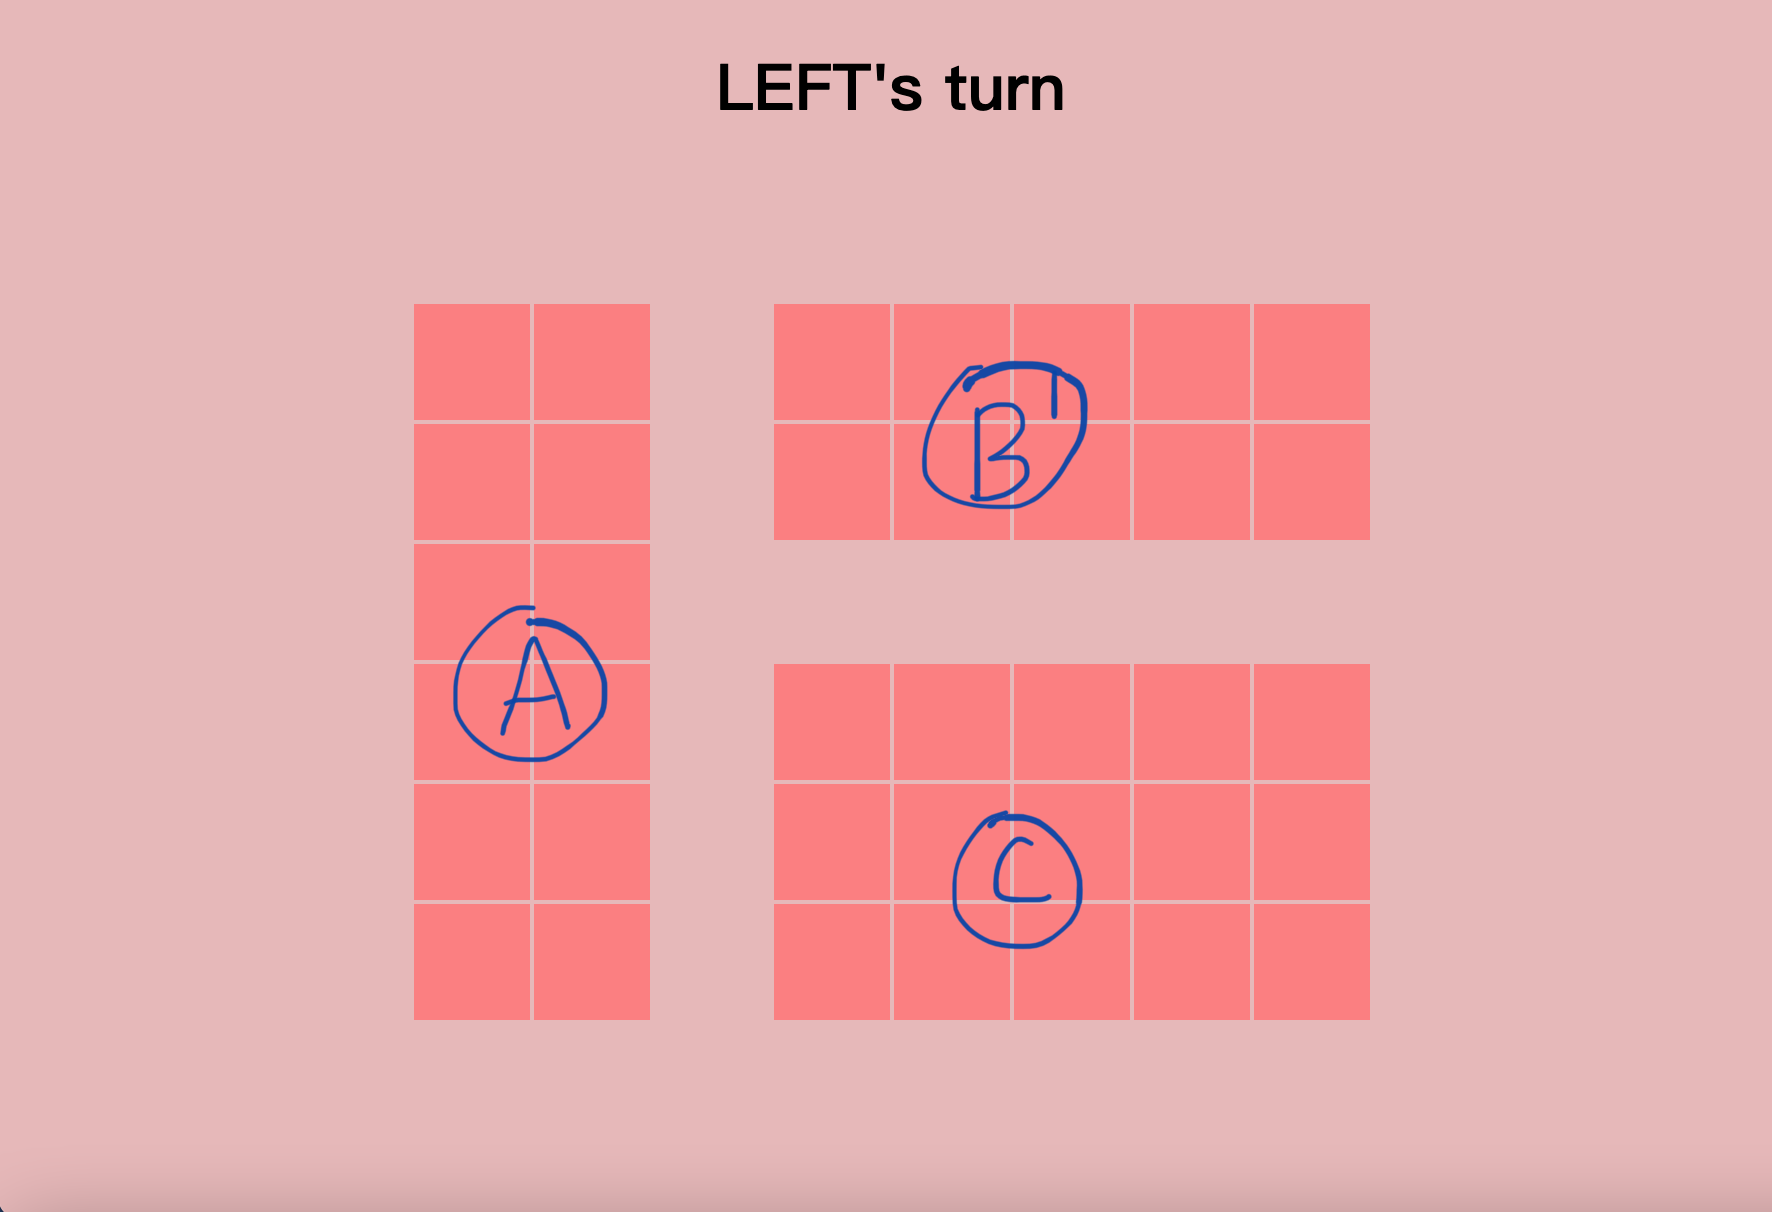
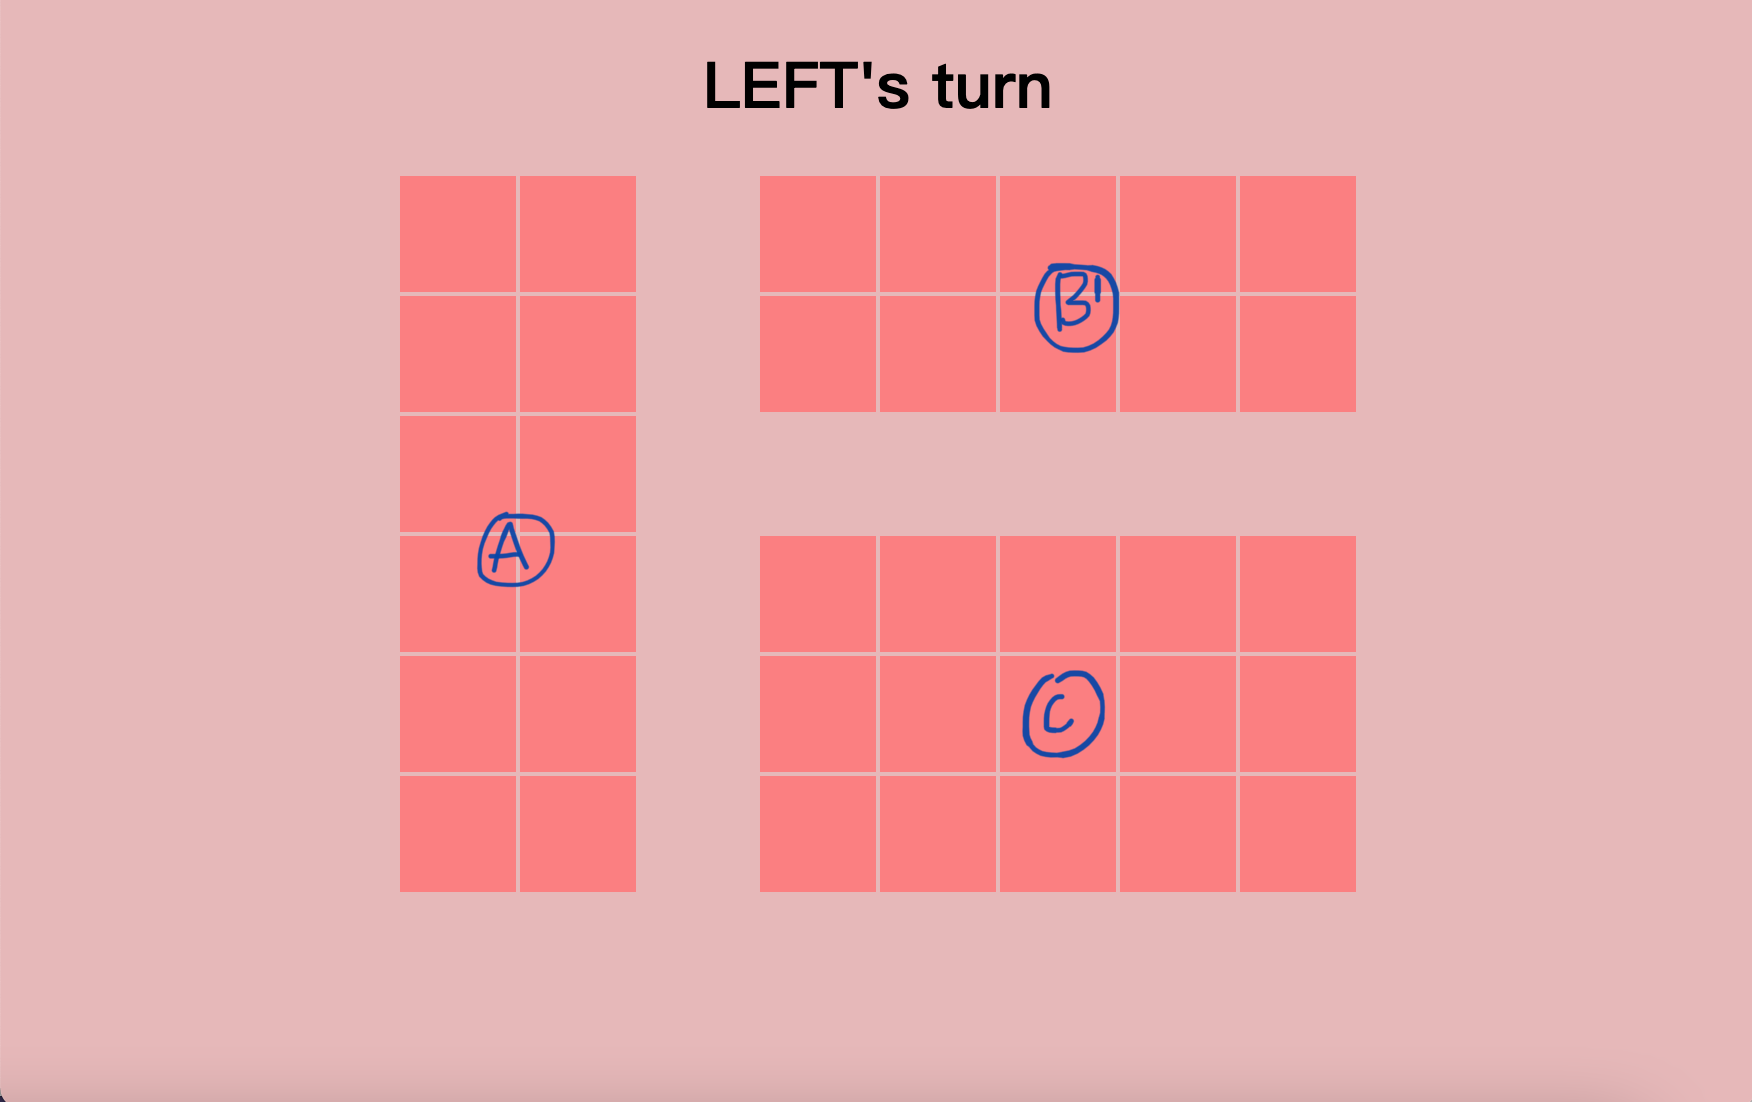
changed style partly

Changed region(s): [[0.4315, 0.1543, 0.8014, 0.8639], [0.2158, 0.1543, 0.3699, 0.8639], [0.4007, 0.0309, 0.6164, 0.1234]]

diff --git a/script.js b/script.js
@@ -28,6 +28,7 @@ const WINNING_COMBINATIONS = [
 ]
 */
 const ATE = "ate"
+const FOOD = "food"
 var cellElements
 const board = document.getElementById('board')
 const winningMessageElement = document.getElementById('winningMessage')
@@ -39,6 +40,7 @@ const setButton = document.getElementById('set-button')
 let rightTurn
 var width
 var height
+
 setButton.addEventListener('click',startGame)
 function setgrid(){
   choosegridElement.classList.remove('disappear')
@@ -51,10 +53,10 @@ function startGame() {
   height = Number(document.getElementById("height").value)
   width = Number(document.getElementById("width").value)
   if (height>width) {
-    document.documentElement.style.setProperty('--cell-size', (1/height)*480 + "px")
+    document.documentElement.style.setProperty('--cell-size', ((1-0.25)/height)*100 + "vh")
   }
   else{
-    document.documentElement.style.setProperty('--cell-size', (1/width)*480 + "px")
+    document.documentElement.style.setProperty('--cell-size', ((1-0.25)/width)*100 + "vh")
   }
   for(let i = 0;i<width*height;i++){
     let added = document.createElement("div")
@@ -70,9 +72,90 @@ function startGame() {
     cell.classList.remove(ATE)
     cell.removeEventListener('click', handleClick)
     cell.addEventListener('click', handleClick, { once: true })
+    cell.addEventListener('mouseover', handleHover)
+    cell.addEventListener('mouseout', handleOut)
   })
   document.getElementById("turn").innerHTML = "LEFT's turn"
   winningMessageElement.classList.remove('show')
+}
+function handleHover(e){
+  const cell=e.target;
+  var i = getCellIndex(cell);
+  if(rightTurn){
+    hoverRow(i);
+  }
+  else{
+    hoverCol(i);
+  }
+  hoverSingle();
+}
+function hoverSingle(){
+  var i = 0
+  for(;i<cellElements.length;i++){
+    if(!rightTurn){
+          if(((((i)%width)+width)%width==0 || cellElements[i-1].classList.contains(ATE)||cellElements[i-1].classList.contains(FOOD))&&((((i)%width)+width)%width==width-1 || cellElements[i+1].classList.contains(ATE)|| cellElements[i+1].classList.contains(FOOD))){
+      cellElements[i].classList.add(FOOD)
+    }
+    }
+    else{
+      if((i-width<0 || cellElements[i-width].classList.contains(ATE)|| cellElements[i-width].classList.contains(FOOD))&&(i+width>cellElements.length-1 || cellElements[i+width].classList.contains(ATE)|| cellElements[i+width].classList.contains(FOOD))){
+      cellElements[i].classList.add(FOOD)
+    }
+    }
+    
+  }
+}
+
+function hoverCol(i){
+  var temp = i
+  while(temp<cellElements.length){
+    if(cellElements[temp].classList.contains(ATE)){
+      break
+    }
+    cellElements[temp].classList.add(FOOD)
+    temp = temp+width
+  }
+  temp = i - width
+  while(temp > -1){
+    if(cellElements[temp].classList.contains(ATE)){
+      break
+    }
+    cellElements[temp].classList.add(FOOD)
+    temp = temp - width
+  }
+}
+
+function hoverRow(i){
+  var temp = i
+  if(temp%width==0){
+    cellElements[temp].classList.add(FOOD)
+    temp=temp+1
+  }
+  while(temp%width!=0){
+    if(cellElements[temp].classList.contains(ATE)){
+      break
+    }
+    cellElements[temp].classList.add(FOOD)
+    temp = temp+1
+  }
+  if(i%width==0){
+    return
+  }
+  temp = i - 1
+  while(((temp%width)+width)%width!=width-1){
+    if(cellElements[temp].classList.contains(ATE)){
+      break
+    }
+    cellElements[temp].classList.add(FOOD)
+    temp = temp-1
+  }
+}
+
+function handleOut(){
+  var i =0;
+  for(;i<cellElements.length;i++){
+    cellElements[i].classList.remove(FOOD);
+  }
 }
 
 function getCellIndex(elm){
@@ -121,9 +204,15 @@ function removeSingle(){
   for(;i<cellElements.length;i++){
     if(((((i)%width)+width)%width==0 || cellElements[i-1].classList.contains(ATE))&&((((i)%width)+width)%width==width-1 || cellElements[i+1].classList.contains(ATE))){
       cellElements[i].classList.add(ATE)
+      cellElements[i].removeEventListener('click', handleClick)
+      cellElements[i].removeEventListener('mouseover',handleHover)
+      cellElements[i].removeEventListener('mouseout',handleOut)
     }
     if((i-width<0 || cellElements[i-width].classList.contains(ATE))&&(i+width>cellElements.length-1 || cellElements[i+width].classList.contains(ATE))){
       cellElements[i].classList.add(ATE)
+      cellElements[i].removeEventListener('click', handleClick)
+      cellElements[i].removeEventListener('mouseover',handleHover)
+      cellElements[i].removeEventListener('mouseout',handleOut)
     }
   }
 }
@@ -141,6 +230,8 @@ function removeCol(i){
     }
     cellElements[temp].classList.add(ATE)
     cellElements[temp].removeEventListener('click', handleClick)
+    cellElements[i].removeEventListener('mouseover',handleHover)
+      cellElements[i].removeEventListener('mouseout',handleOut)
     temp = temp+width
   }
   temp = i - width
@@ -150,6 +241,8 @@ function removeCol(i){
     }
     cellElements[temp].classList.add(ATE)
     cellElements[temp].removeEventListener('click', handleClick)
+    cellElements[i].removeEventListener('mouseover',handleHover)
+      cellElements[i].removeEventListener('mouseout',handleOut)
     temp = temp - width
   }
 }
@@ -159,6 +252,8 @@ function removeRow(i){
   if(temp%width==0){
     cellElements[temp].classList.add(ATE)
     cellElements[temp].removeEventListener('click', handleClick)
+    cellElements[i].removeEventListener('mouseover',handleHover)
+      cellElements[i].removeEventListener('mouseout',handleOut)
     temp=temp+1
   }
   while(temp%width!=0){
@@ -167,6 +262,8 @@ function removeRow(i){
     }
     cellElements[temp].classList.add(ATE)
     cellElements[temp].removeEventListener('click', handleClick)
+    cellElements[i].removeEventListener('mouseover',handleHover)
+      cellElements[i].removeEventListener('mouseout',handleOut)
     temp = temp+1
   }
   if(i%width==0){
@@ -179,6 +276,8 @@ function removeRow(i){
     }
     cellElements[temp].classList.add(ATE)
     cellElements[temp].removeEventListener('click', handleClick)
+    cellElements[i].removeEventListener('mouseover',handleHover)
+    cellElements[i].removeEventListener('mouseout',handleOut)
     temp = temp-1
   }
 }

diff --git a/styles.css b/styles.css
@@ -9,9 +9,11 @@
 
 body {
   margin: 0;
+  background-color:#F6F7E8;
 }
 
 .board {
+  background-color: #F6F7E8;
   display: grid;
   justify-content: center;
   align-content: center;
@@ -23,14 +25,49 @@ body {
 .cell {
   width: var(--cell-size);
   height: var(--cell-size);
-  background-color: rgba(255, 120, 120, .9);
-  border: 1px solid rgba(231,184,184);
+  /*background-color: rgba(255, 120, 120, .9);
+  border: 1px solid rgba(231,184,184);*/
+  background-color:#517A85;
+  border-radius: calc(var(--cell-size)*0.2);
+  margin: calc(var(--cell-size)*0.05);
+  position: relative;
+  cursor: pointer;
+  
+}
+
+.cell.food{
+  width: var(--cell-size);
+  height: var(--cell-size);
+  background-color:#B1E1DF;
+  border-radius: calc(var(--cell-size)*0.2);
+  margin: calc(var(--cell-size)*0.05);
   display: flex;
   justify-content: center;
   align-items: center;
   position: relative;
   cursor: pointer;
 }
+/*
+.cell:not(.ate):not(.food):before{
+  content:"";
+  position: absolute;
+  width:calc(var(--cell-size));
+  height:calc(var(--cell-size));
+  border-radius: calc(var(--cell-size)*0.1);
+  box-shadow: calc(var(--cell-size)*0.1) calc(var(--cell-size)*0.1) calc(var(--cell-size)*0.1) #B1E1DF;
+  
+}*/
+/*
+.cell:not(.ate):before{
+  content:"";
+  position: absolute;
+  top:0;
+  bottom: 0;
+  left:0;
+  right: 0;
+  z-index: -1;
+  box-shadow: -5px 5px 20px 5px grey;
+}*/
 /*
 .cell:first-child,
 .cell:nth-child(2),
@@ -57,9 +94,9 @@ body {
 .cell.ate{
   width: var(--cell-size);
   height: var(--cell-size);
-  background-color: rgba(231,184,184);
-  border: 1px solid rgba(231,184,184);
+  background-color: transparent;
   cursor: not-allowed;
+  box-shadow: transparent;
 
 }
 

diff --git a/toggle.html b/toggle.html
@@ -1,0 +1,46 @@
+<!DOCTYPE html>
+<html >
+<head>
+  <meta charset="UTF-8">
+  <title>Realistics radio buttons with only css</title>
+  <meta name="viewport" content="width=device-width, initial-scale=1">
+  <link rel="stylesheet" href="https://cdnjs.cloudflare.com/ajax/libs/normalize/5.0.0/normalize.min.css">
+
+  <link rel='stylesheet prefetch' href='https://fonts.googleapis.com/css?family=Open+Sans+Condensed:300'>
+
+      <link rel="stylesheet" href="css/style.css">
+
+  
+</head>
+
+<body>
+  <section>
+	<div>
+		<input id="chk01" type="checkbox" />
+		<label for="chk01">Lorem ipsum dolor sit amet.</label>
+	</div>
+	<div>
+		<input id="chk02" type="checkbox" />
+		<label for="chk02">Eos voluptate, impedit porro iusto.</label>
+	</div>
+	<div>
+		<input id="chk03" type="checkbox" />
+		<label for="chk03">Ipsum, distinctio? Odio, delectus, maiores.</label>
+	</div>
+	<div>
+		<input id="chk04" type="checkbox" />
+		<label for="chk04">Sint maxime ex nisi iste!</label>
+	</div>
+	<div>
+		<input id="chk05" type="checkbox" />
+		<label for="chk05">Quisquam, ipsam autem veniam libero!</label>
+	</div>
+	<div class="total">
+		Total checked: 
+	</div>
+</section>
+  
+    <script src="js/index.js"></script>
+
+</body>
+</html>

diff --git a/instruction.html b/instruction.html
@@ -33,13 +33,13 @@
             <p class="important">After one removal, if there are some columns or rows isolated (with no neighbor columns or rows), those isolated columns or rows will be removed automatically.</p>
             <p>- Isolated row:</p>
             <img src="isorow.png" alt="An isolated row gets removed">
-            <p>1 and 3 will become isolated after 2 is removed</p>
+            <p> Row 1 and row 3 will become isolated after row 2 is removed</p>
             <img src="isorow.gif" alt="An isolated row gets removed">
             <p>- Isolated column:</p>
             <img src="isocolumn.png" alt="An isolated column gets removed">
-            <p>1 will become isolated after 2 is removed</p>
+            <p> Column 1 will become isolated after column 2 is removed</p>
             <img src="isocolumn.gif" alt="An isolated column gets removed">
-            
+
         </div>
     </div>
 </body>

diff --git a/style_instruction.css b/style_instruction.css
@@ -56,3 +56,38 @@ img{
 .important{
     color: red;
 }
+
+
+.regular-checkbox {
+	display: none;
+}
+
+.regular-checkbox + label {
+	background-color: #fafafa;
+	border: 1px solid #cacece;
+	box-shadow: 0 1px 2px rgba(0,0,0,0.05), inset 0px -15px 10px -12px rgba(0,0,0,0.05);
+	padding: 9px;
+	border-radius: 3px;
+	display: inline-block;
+	position: relative;
+}
+
+.regular-checkbox + label:active, .regular-checkbox:checked + label:active {
+	box-shadow: 0 1px 2px rgba(0,0,0,0.05), inset 0px 1px 3px rgba(0,0,0,0.1);
+}
+
+.regular-checkbox:checked + label {
+	background-color: #e9ecee;
+	border: 1px solid #adb8c0;
+	box-shadow: 0 1px 2px rgba(0,0,0,0.05), inset 0px -15px 10px -12px rgba(0,0,0,0.05), inset 15px 10px -12px rgba(255,255,255,0.1);
+	color: #99a1a7;
+}
+
+.regular-checkbox:checked + label:after {
+	content: '\2714';
+	font-size: 14px;
+	position: absolute;
+	top: 0px;
+	left: 3px;
+	color: #99a1a7;
+}

diff --git a/index.html b/index.html
@@ -8,7 +8,7 @@
   <script src="script.js" defer></script>
   <title>Bynum's Game with Precaution</title>
 </head>
-<body style="background-color:rgba(231,184,184);">
+<body>
   <!--<div id="flex-box">-->
    <h1 id="turn" style = "text-align: center;" > X's turn</h1>
   <div class="board" id="board">
